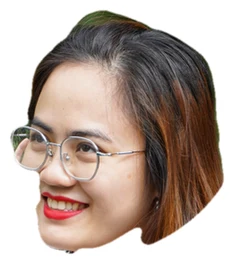
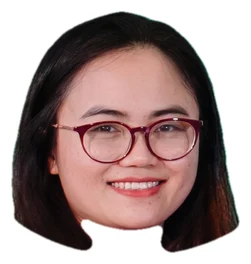
Đổi ảnh chị Chu Lê Mỹ Nga (6d93ba) sang ảnh mới
Claude-Session: https://claude.ai/code/session_014NvTU2FGoSxuqwznEUZ16q

diff --git a/admin.html b/admin.html
@@ -213,7 +213,7 @@ code{background:rgba(0,0,0,.25);border-radius:6px;padding:1px 6px;font-size:.92e
 <script src="assets/modules.js?v=20261090"></script>
 <script src="assets/stage.js?v=23"></script>
 <script src="assets/three.min.js?v=128"></script>
-<script src="assets/stage3d.js?v=63"></script>
+<script src="assets/stage3d.js?v=64"></script>
 <script>
 (function () {
   var $ = function (s) { return document.querySelector(s); };
